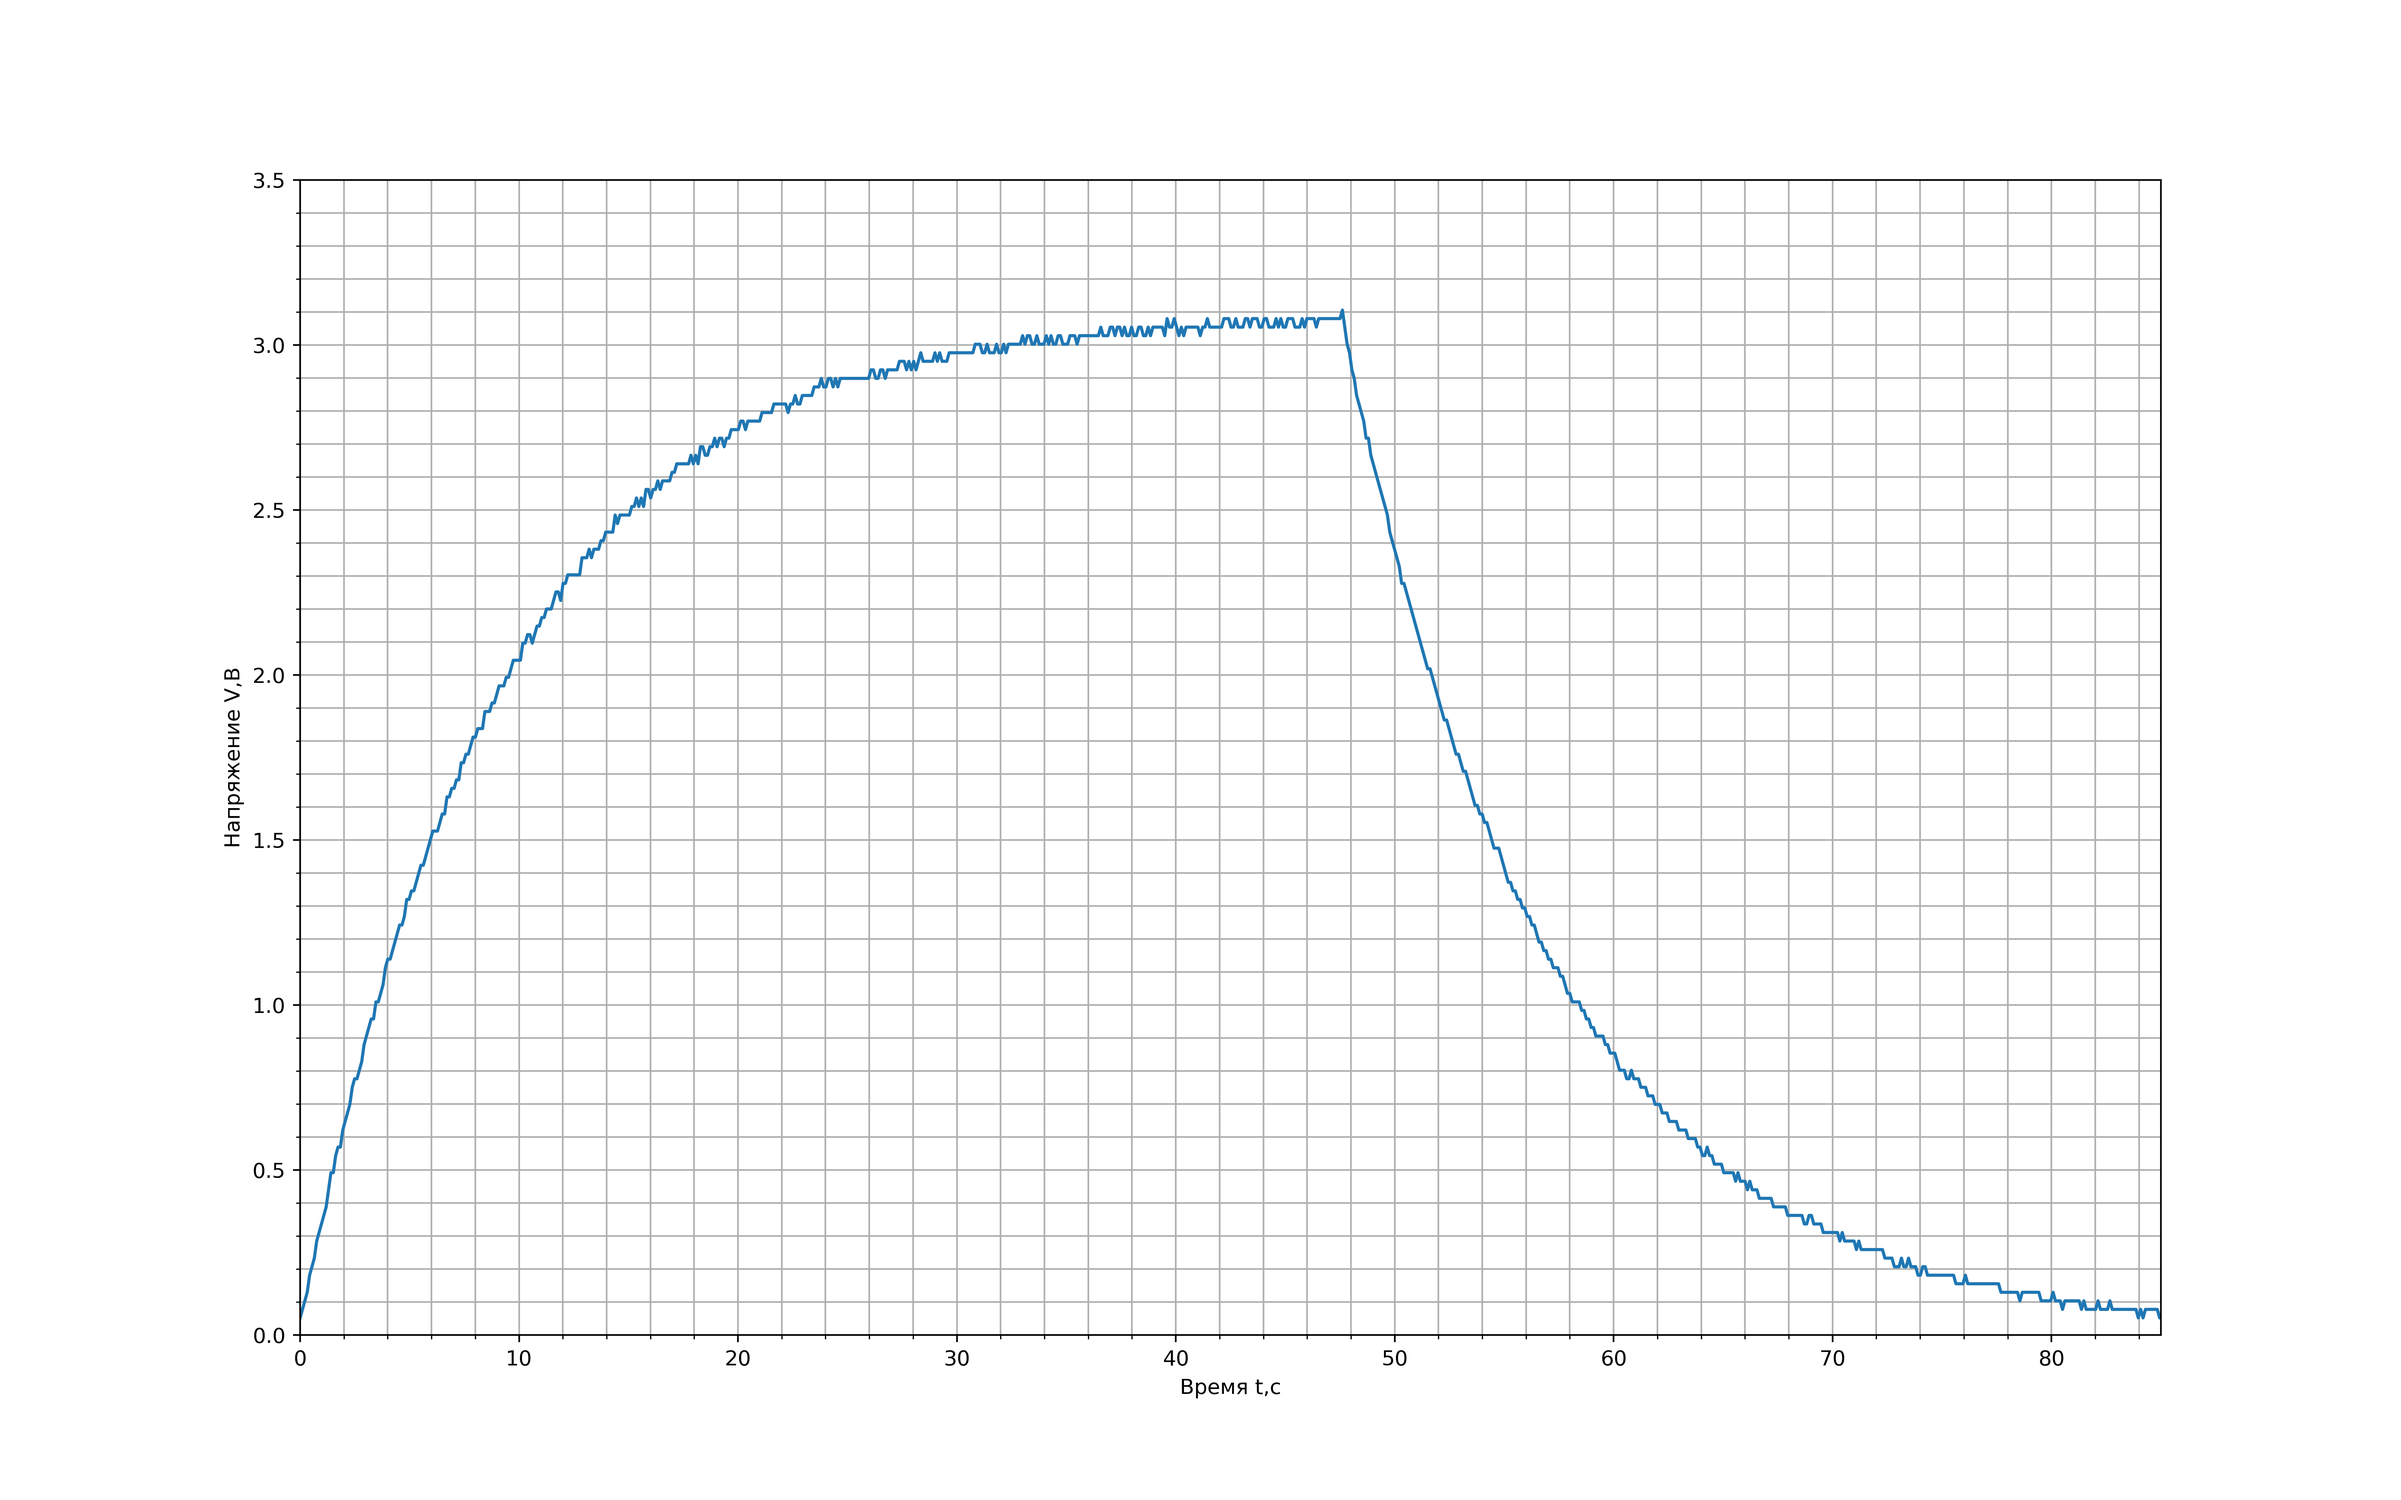
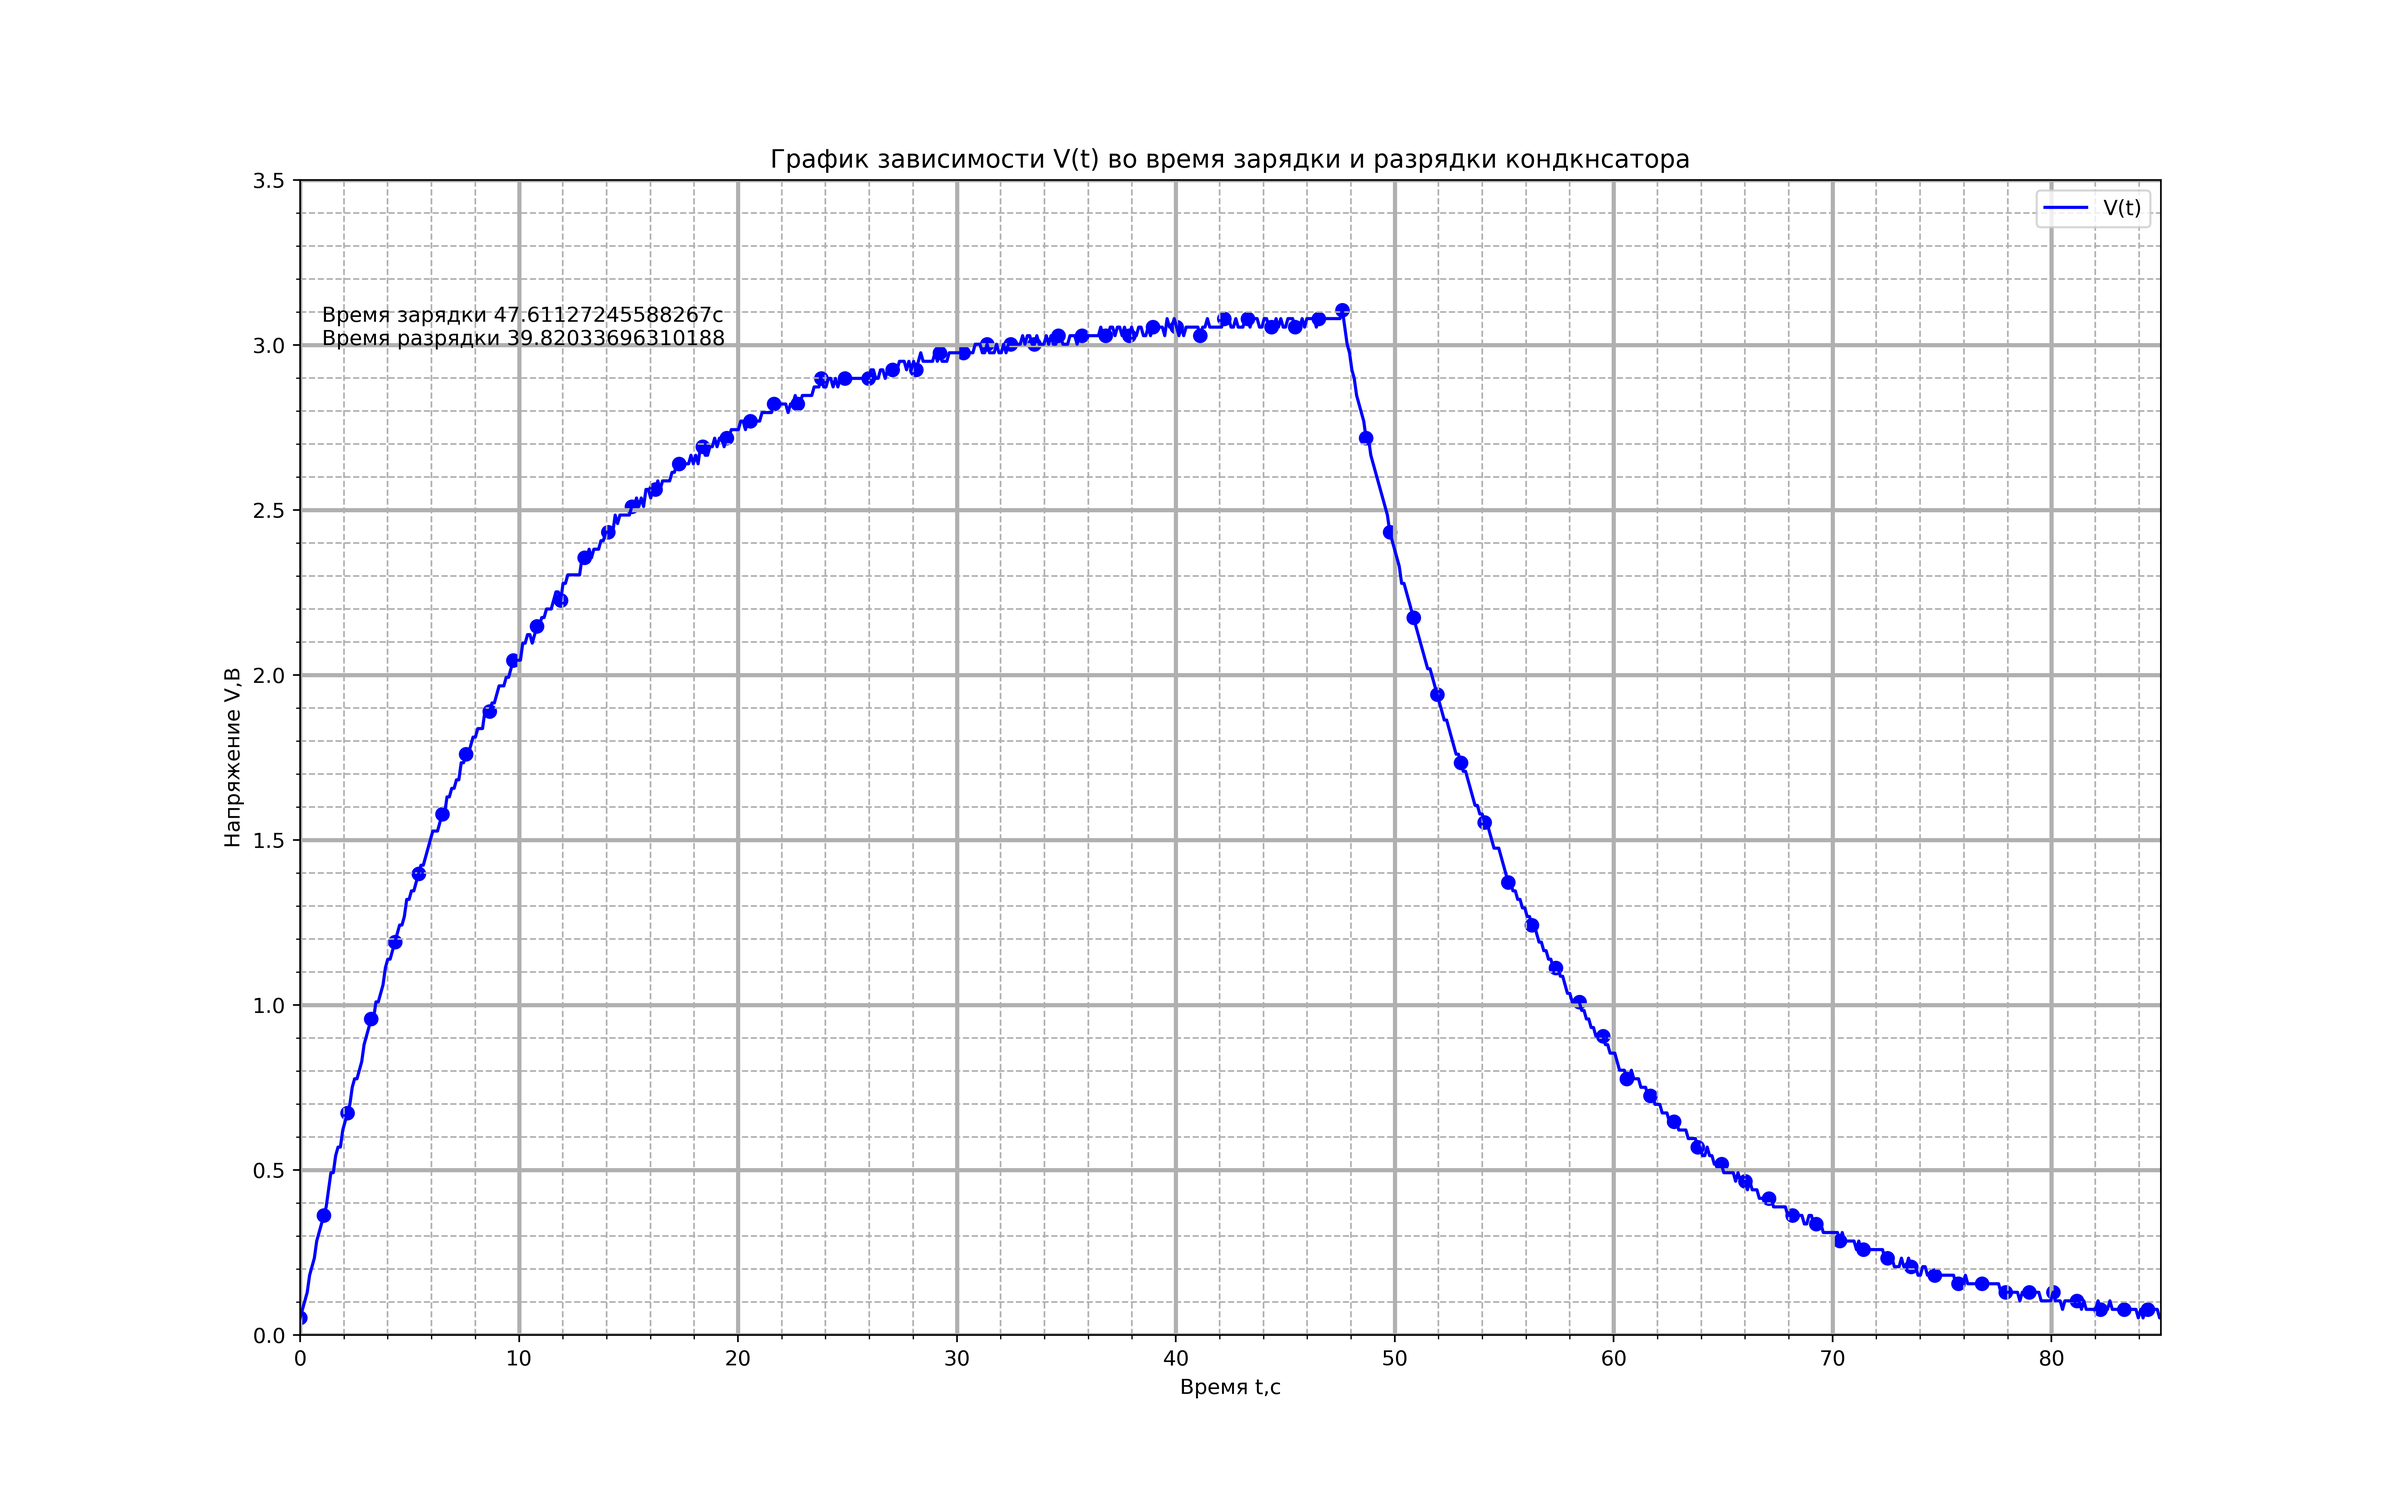
fasdfa

diff --git a/7/graf.py b/7/graf.py
@@ -42,7 +42,11 @@ plt.ylim(0, 3.5)
 ax.plot(T_data, V_data, c = "b", label='V(t)')
 ax.scatter(dot_x, dot_y, c = "b")
 
-plt.text()
+top_time = T_data[np.argmax(V_data)]
+
+plt.text(1, 3, "Время зарядки {}c \nВремя разрядки {} ".format(top_time, T_data.max() - top_time))
+
+plt.title("График зависимости V(t) во время зарядки и разрядки кондкнсатора")
 
 plt.legend()
 fig.savefig("test.png")
